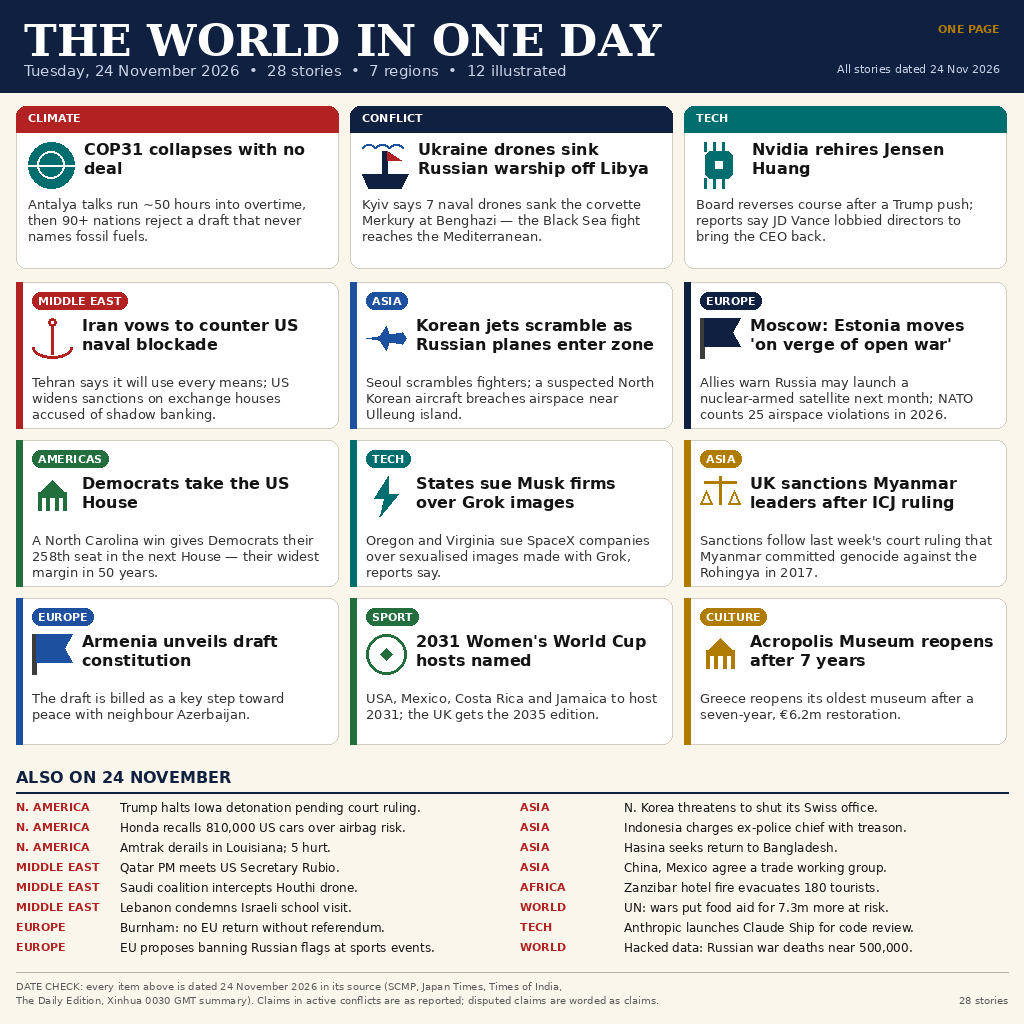
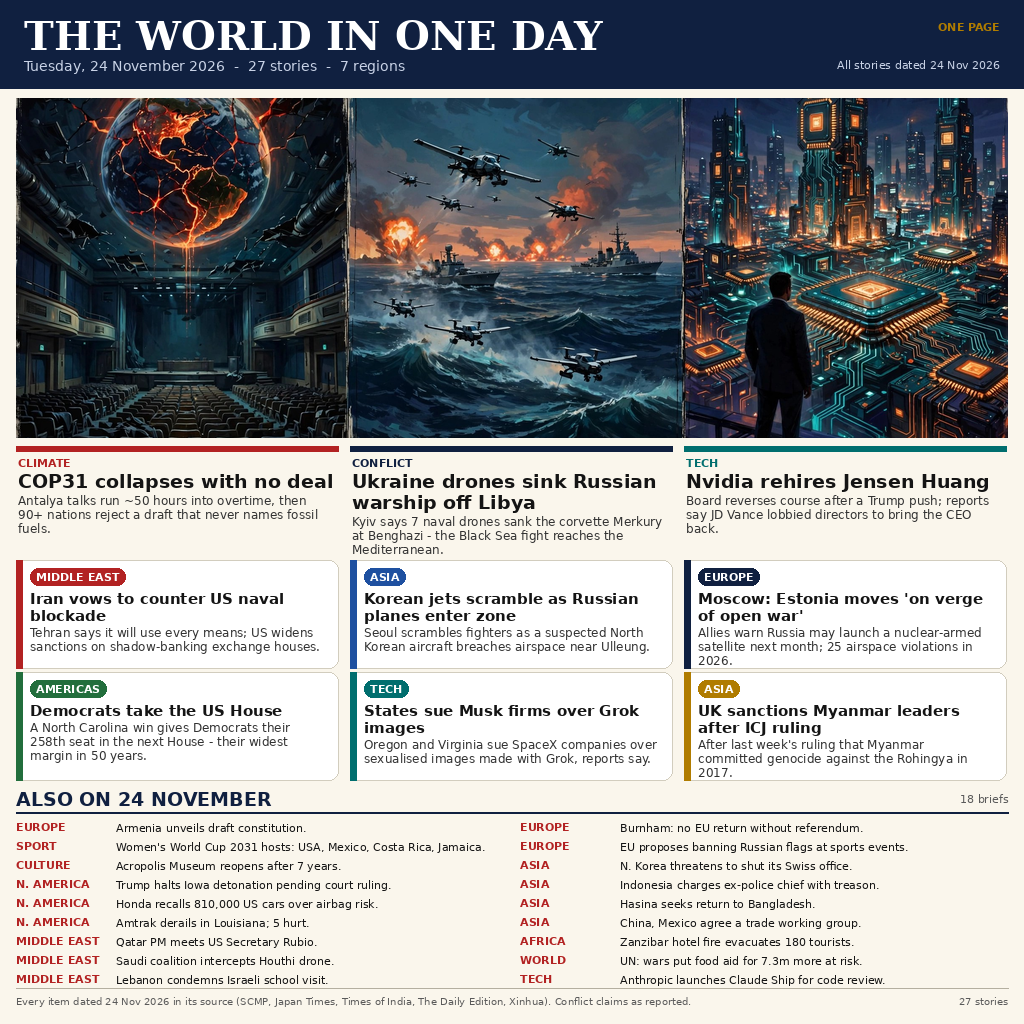
v2: AI-illustrated triptych hero + typeset news layer (27 stories)

diff --git a/generate.py b/generate.py
@@ -1,178 +1,57 @@
 #!/usr/bin/env python3
-"""Generate the 24 Nov 2026 world-news front page (1024x1024 PNG).
-Deterministic: fixed date, fixed story list, no network, no random, no clock.
-Run: python3 generate.py  -> writes assets/entry.png
-Stories were collected 2026-11-24 ~16:00 CST from SCMP, Japan Times,
-Times of India, The Daily Edition, Xinhua summary and make.fun's own
-prior-day winner notes. Anything dated 23 Nov or earlier is excluded
-except where the report itself is dated 24 Nov (marked 'reported 24 Nov').
-"""
-import textwrap
+"""Generate the 24 Nov 2026 world-news front page v2 (1024x1024 PNG).
+Deterministic: fixed assets, fixed story list, no network, no clock, no random.
+Run: python3 generate.py -> writes assets/entry.png
+Layout: AI-illustrated triptych of the three lead stories on top,
+code-typeset headlines, cards and briefs below (27 stories, 7 regions).
+Stories as collected 2026-11-24 from SCMP, Japan Times, Times of India,
+The Daily Edition and Xinhua; all items dated 24 Nov 2026."""
+import os
 from PIL import Image, ImageDraw, ImageFont
 
+HERE = os.path.dirname(os.path.abspath(__file__))
 W = H = 1024
 FD = "/usr/share/fonts/truetype/dejavu/"
-F_TITLE = ImageFont.truetype(FD + "DejaVuSerif-Bold.ttf", 44)
-F_SUB = ImageFont.truetype(FD + "DejaVuSans.ttf", 15)
-F_H1 = ImageFont.truetype(FD + "DejaVuSans-Bold.ttf", 21)
-F_H2 = ImageFont.truetype(FD + "DejaVuSans-Bold.ttf", 16)
-F_BODY = ImageFont.truetype(FD + "DejaVuSans.ttf", 13)
-F_SMALL = ImageFont.truetype(FD + "DejaVuSans.ttf", 11)
-F_TAG = ImageFont.truetype(FD + "DejaVuSans-Bold.ttf", 11)
-F_FOOT = ImageFont.truetype(FD + "DejaVuSans.ttf", 10)
+def F(name, size): return ImageFont.truetype(FD + name, size)
+F_TITLE = F("DejaVuSerif-Bold.ttf", 40)
+F_SUB   = F("DejaVuSans.ttf", 14)
+F_H1    = F("DejaVuSans-Bold.ttf", 19)
+F_H2    = F("DejaVuSans-Bold.ttf", 15)
+F_BODY  = F("DejaVuSans.ttf", 12)
+F_SMALL = F("DejaVuSans.ttf", 11)
+F_TAG   = F("DejaVuSans-Bold.ttf", 11)
+F_FOOT  = F("DejaVuSans.ttf", 10)
 
 NAVY = (16, 32, 64); PAPER = (250, 246, 236); INK = (20, 20, 20)
 GREY = (90, 90, 90); RED = (178, 34, 34); TEAL = (0, 110, 110)
 GOLD = (176, 124, 0); BLUE = (30, 80, 160); GREEN = (34, 110, 60)
-SKY = (210, 228, 240); SAND = (238, 226, 200)
 
-img = Image.new("RGB", (W, H), PAPER)
-d = ImageDraw.Draw(img)
-
-def wrap(text, font, width):
-    lines, cur = [], ""
-    for word in text.split(" "):
-        t = (cur + " " + word).strip()
-        if d.textlength(t, font=font) <= width:
-            cur = t
-        else:
-            if cur:
-                lines.append(cur)
-            cur = word
-    if cur:
-        lines.append(cur)
-    return lines
-
-def para(x, y, text, font, width, fill=INK, lh=None):
-    lh = lh or int(font.size * 1.28)
-    for ln in wrap(text, font, width):
-        d.text((x, y), ln, font=font, fill=fill)
-        y += lh
-    return y
-
-def tag(x, y, label, color):
-    w = int(d.textlength(label, font=F_TAG)) + 12
-    d.rounded_rectangle([x, y, x + w, y + 17], radius=8, fill=color)
-    d.text((x + 6, y + 2), label, font=F_TAG, fill=(255, 255, 255))
-    return w
-
-def icon(kind, x, y, s, color):
-    """Simple flat vector icon drawn with shapes only."""
-    if kind == "globe":
-        d.ellipse([x, y, x + s, y + s], fill=TEAL)
-        d.ellipse([x + s*0.2, y + s*0.2, x + s*0.8, y + s*0.8], outline=(255,255,255), width=2)
-        d.line([x, y + s/2, x + s, y + s/2], fill=(255,255,255), width=2)
-    elif kind == "ship":
-        d.polygon([(x, y+s*0.7), (x+s, y+s*0.7), (x+s*0.85, y+s), (x+s*0.15, y+s)], fill=color)
-        d.rectangle([x+s*0.45, y+s*0.2, x+s*0.55, y+s*0.7], fill=color)
-        d.polygon([(x+s*0.55, y+s*0.2), (x+s*0.85, y+s*0.4), (x+s*0.55, y+s*0.4)], fill=RED)
-        for i in range(3):
-            d.arc([x+i*s*0.3, y+s*0.05, x+(i+1)*s*0.3, y+s*0.25], 180, 360, fill=BLUE, width=2)
-    elif kind == "chip":
-        d.rounded_rectangle([x+s*0.2, y+s*0.2, x+s*0.8, y+s*0.8], radius=6, fill=color)
-        d.rectangle([x+s*0.42, y+s*0.42, x+s*0.58, y+s*0.58], fill=(255,255,255))
-        for i in range(3):
-            d.line([x+s*0.2+i*s*0.2, y, x+s*0.2+i*s*0.2, y+s*0.2], fill=color, width=3)
-            d.line([x+s*0.2+i*s*0.2, y+s*0.8, x+s*0.2+i*s*0.2, y+s], fill=color, width=3)
-    elif kind == "plane":
-        d.polygon([(x, y+s*0.5), (x+s*0.9, y+s*0.35), (x+s, y+s*0.5), (x+s*0.9, y+s*0.65)], fill=color)
-        d.polygon([(x+s*0.3, y+s*0.5), (x+s*0.5, y+s*0.2), (x+s*0.6, y+s*0.5)], fill=color)
-        d.polygon([(x+s*0.3, y+s*0.5), (x+s*0.5, y+s*0.8), (x+s*0.6, y+s*0.5)], fill=color)
-    elif kind == "flag":
-        d.rectangle([x, y, x+4, y+s], fill=(60,60,60))
-        d.polygon([(x+4, y), (x+s, y), (x+s*0.8, y+s*0.35), (x+s, y+s*0.7), (x+4, y+s*0.7)], fill=color)
-    elif kind == "scale":
-        d.line([x+s/2, y, x+s/2, y+s*0.7], fill=color, width=3)
-        d.line([x+s*0.1, y+s*0.15, x+s*0.9, y+s*0.15], fill=color, width=3)
-        d.polygon([(x, y+s*0.7), (x+s*0.3, y+s*0.7), (x+s*0.15, y+s*0.35)], outline=color, width=2)
-        d.polygon([(x+s*0.7, y+s*0.7), (x+s, y+s*0.7), (x+s*0.85, y+s*0.35)], outline=color, width=2)
-    elif kind == "ball":
-        d.ellipse([x, y, x+s, y+s], fill=(255,255,255), outline=color, width=3)
-        d.polygon([(x+s*0.5, y+s*0.35), (x+s*0.65, y+s*0.5), (x+s*0.5, y+s*0.65), (x+s*0.35, y+s*0.5)], fill=color)
-    elif kind == "book":
-        d.rectangle([x+s*0.15, y+s*0.1, x+s*0.85, y+s*0.9], fill=color)
-        d.rectangle([x+s*0.15, y+s*0.1, x+s*0.5, y+s*0.9], fill=(255,255,255))
-        d.line([x+s*0.2, y+s*0.3, x+s*0.45, y+s*0.3], fill=color, width=2)
-        d.line([x+s*0.2, y+s*0.5, x+s*0.45, y+s*0.5], fill=color, width=2)
-    elif kind == "anchor":
-        d.ellipse([x+s*0.4, y, x+s*0.6, y+s*0.2], outline=color, width=3)
-        d.line([x+s/2, y+s*0.15, x+s/2, y+s*0.9], fill=color, width=3)
-        d.arc([x, y+s*0.45, x+s, y+s], 0, 180, fill=color, width=3)
-    elif kind == "capitol":
-        d.polygon([(x+s*0.2, y+s*0.4), (x+s*0.5, y+s*0.1), (x+s*0.8, y+s*0.4)], fill=color)
-        d.rectangle([x+s*0.15, y+s*0.4, x+s*0.85, y+s*0.85], fill=color)
-        for i in range(3):
-            d.rectangle([x+s*0.25+i*s*0.22, y+s*0.55, x+s*0.33+i*s*0.22, y+s*0.85], fill=(255,255,255))
-    elif kind == "leaf":
-        d.ellipse([x, y+s*0.2, x+s*0.8, y+s], fill=color)
-        d.polygon([(x+s*0.7, y), (x+s, y+s*0.3), (x+s*0.8, y+s*0.1)], fill=GREEN)
-    elif kind == "bolt":
-        d.polygon([(x+s*0.55, y), (x+s*0.2, y+s*0.55), (x+s*0.45, y+s*0.55), (x+s*0.35, y+s), (x+s*0.8, y+s*0.45), (x+s*0.55, y+s*0.45)], fill=color)
-
-# ---- Masthead ----
-d.rectangle([0, 0, W, 92], fill=NAVY)
-d.text((24, 14), "THE WORLD IN ONE DAY", font=F_TITLE, fill=(255, 255, 255))
-d.text((24, 62), "Tuesday, 24 November 2026  •  28 stories  •  7 regions  •  12 illustrated",
-       font=F_SUB, fill=(200, 210, 230))
-d.text((W-24, 22), "ONE PAGE", font=F_TAG, fill=GOLD, anchor="ra")
-d.text((W-24, 62), "All stories dated 24 Nov 2026", font=F_SMALL, fill=(200, 210, 230), anchor="ra")
-
-# ---- Lead row: 3 big cards ----
-leads = [
-    ("CLIMATE", RED, "globe", "COP31 collapses with no deal",
+LEADS = [
+    ("CLIMATE", RED, "COP31 collapses with no deal",
      "Antalya talks run ~50 hours into overtime, then 90+ nations reject a draft that never names fossil fuels."),
-    ("CONFLICT", NAVY, "ship", "Ukraine drones sink Russian warship off Libya",
-     "Kyiv says 7 naval drones sank the corvette Merkury at Benghazi — the Black Sea fight reaches the Mediterranean."),
-    ("TECH", TEAL, "chip", "Nvidia rehires Jensen Huang",
+    ("CONFLICT", NAVY, "Ukraine drones sink Russian warship off Libya",
+     "Kyiv says 7 naval drones sank the corvette Merkury at Benghazi - the Black Sea fight reaches the Mediterranean."),
+    ("TECH", TEAL, "Nvidia rehires Jensen Huang",
      "Board reverses course after a Trump push; reports say JD Vance lobbied directors to bring the CEO back."),
 ]
-x = 16
-for tagname, col, ic, head, body in leads:
-    d.rounded_rectangle([x, 106, x + 322, 268], radius=10, fill=(255, 255, 255), outline=(210, 205, 190))
-    d.rounded_rectangle([x, 106, x + 322, 132], radius=10, fill=col)
-    d.rectangle([x, 122, x + 322, 132], fill=col)
-    d.text((x + 12, 111), tagname, font=F_TAG, fill=(255, 255, 255))
-    icon(ic, x + 12, 142, 46, col)
-    yy = para(x + 68, 140, head, F_H2, 240, lh=19)
-    para(x + 12, 196, body, F_BODY, 298, fill=(50, 50, 50))
-    x += 334
-
-# ---- Middle grid: 9 illustrated cards ----
-cards = [
-    ("MIDDLE EAST", RED, "anchor", "Iran vows to counter US naval blockade",
-     "Tehran says it will use every means; US widens sanctions on exchange houses accused of shadow banking."),
-    ("ASIA", BLUE, "plane", "Korean jets scramble as Russian planes enter zone",
-     "Seoul scrambles fighters; a suspected North Korean aircraft breaches airspace near Ulleung island."),
-    ("EUROPE", NAVY, "flag", "Moscow: Estonia moves 'on verge of open war'",
-     "Allies warn Russia may launch a nuclear-armed satellite next month; NATO counts 25 airspace violations in 2026."),
-    ("AMERICAS", GREEN, "capitol", "Democrats take the US House",
-     "A North Carolina win gives Democrats their 258th seat in the next House — their widest margin in 50 years."),
-    ("TECH", TEAL, "bolt", "States sue Musk firms over Grok images",
+CARDS = [
+    ("MIDDLE EAST", RED, "Iran vows to counter US naval blockade",
+     "Tehran says it will use every means; US widens sanctions on shadow-banking exchange houses."),
+    ("ASIA", BLUE, "Korean jets scramble as Russian planes enter zone",
+     "Seoul scrambles fighters as a suspected North Korean aircraft breaches airspace near Ulleung."),
+    ("EUROPE", NAVY, "Moscow: Estonia moves 'on verge of open war'",
+     "Allies warn Russia may launch a nuclear-armed satellite next month; 25 airspace violations in 2026."),
+    ("AMERICAS", GREEN, "Democrats take the US House",
+     "A North Carolina win gives Democrats their 258th seat in the next House - their widest margin in 50 years."),
+    ("TECH", TEAL, "States sue Musk firms over Grok images",
      "Oregon and Virginia sue SpaceX companies over sexualised images made with Grok, reports say."),
-    ("ASIA", GOLD, "scale", "UK sanctions Myanmar leaders after ICJ ruling",
-     "Sanctions follow last week's court ruling that Myanmar committed genocide against the Rohingya in 2017."),
-    ("EUROPE", BLUE, "flag", "Armenia unveils draft constitution",
-     "The draft is billed as a key step toward peace with neighbour Azerbaijan."),
-    ("SPORT", GREEN, "ball", "2031 Women's World Cup hosts named",
-     "USA, Mexico, Costa Rica and Jamaica to host 2031; the UK gets the 2035 edition."),
-    ("CULTURE", GOLD, "capitol", "Acropolis Museum reopens after 7 years",
-     "Greece reopens its oldest museum after a seven-year, €6.2m restoration."),
+    ("ASIA", GOLD, "UK sanctions Myanmar leaders after ICJ ruling",
+     "After last week's ruling that Myanmar committed genocide against the Rohingya in 2017."),
 ]
-y0 = 282
-for i, (tagname, col, ic, head, body) in enumerate(cards):
-    cx = 16 + (i % 3) * 334
-    cy = y0 + (i // 3) * 158
-    d.rounded_rectangle([cx, cy, cx + 322, cy + 146], radius=10, fill=(255, 255, 255), outline=(210, 205, 190))
-    d.rectangle([cx, cy, cx + 6, cy + 146], fill=col)
-    tag(cx + 16, cy + 10, tagname, col)
-    icon(ic, cx + 16, cy + 36, 40, col)
-    para(cx + 66, cy + 34, head, F_H2, 244, lh=19)
-    para(cx + 16, cy + 92, body, F_BODY, 292, fill=(50, 50, 50))
-
-# ---- Briefs: two columns, 18 more stories ----
-d.text((16, 768), "ALSO ON 24 NOVEMBER", font=F_H2, fill=NAVY)
-d.line([16, 792, W - 16, 792], fill=NAVY, width=2)
-briefs_l = [
+BRIEFS = [
+    ("EUROPE", "Armenia unveils draft constitution."),
+    ("SPORT", "Women's World Cup 2031 hosts: USA, Mexico, Costa Rica, Jamaica."),
+    ("CULTURE", "Acropolis Museum reopens after 7 years."),
     ("N. AMERICA", "Trump halts Iowa detonation pending court ruling."),
     ("N. AMERICA", "Honda recalls 810,000 US cars over airbag risk."),
     ("N. AMERICA", "Amtrak derails in Louisiana; 5 hurt."),
@@ -181,8 +60,6 @@ briefs_l = [
     ("MIDDLE EAST", "Lebanon condemns Israeli school visit."),
     ("EUROPE", "Burnham: no EU return without referendum."),
     ("EUROPE", "EU proposes banning Russian flags at sports events."),
-]
-briefs_r = [
     ("ASIA", "N. Korea threatens to shut its Swiss office."),
     ("ASIA", "Indonesia charges ex-police chief with treason."),
     ("ASIA", "Hasina seeks return to Bangladesh."),
@@ -190,25 +67,95 @@ briefs_r = [
     ("AFRICA", "Zanzibar hotel fire evacuates 180 tourists."),
     ("WORLD", "UN: wars put food aid for 7.3m more at risk."),
     ("TECH", "Anthropic launches Claude Ship for code review."),
-    ("WORLD", "Hacked data: Russian war deaths near 500,000."),
 ]
-F_BRIEF = ImageFont.truetype(FD + "DejaVuSans.ttf", 12)
-def brief_col(x, items, y=800):
-    for region, text in items:
-        d.text((x, y), region, font=F_TAG, fill=RED)
-        y = para(x + 104, y, text, F_BRIEF, 376, lh=15)
-        y += 5
+
+def wrap(d, text, font, width):
+    lines, cur = [], ""
+    for word in text.split(" "):
+        t = (cur + " " + word).strip()
+        if d.textlength(t, font=font) <= width:
+            cur = t
+        else:
+            if cur: lines.append(cur)
+            cur = word
+    if cur: lines.append(cur)
+    return lines
+
+def para(d, x, y, text, font, width, fill=INK, lh=None):
+    lh = lh or int(font.size * 1.3)
+    for ln in wrap(d, text, font, width):
+        d.text((x, y), ln, font=font, fill=fill)
+        y += lh
     return y
-brief_col(16, briefs_l)
-brief_col(520, briefs_r)
 
-# ---- Footer ----
-d.line([16, 972, W - 16, 972], fill=(180, 175, 160), width=1)
-d.text((16, 980), "DATE CHECK: every item above is dated 24 November 2026 in its source (SCMP, Japan Times, Times of India,",
-       font=F_FOOT, fill=GREY)
-d.text((16, 994), "The Daily Edition, Xinhua 0030 GMT summary). Claims in active conflicts are as reported; disputed claims are worded as claims.",
-       font=F_FOOT, fill=GREY)
-d.text((W - 16, 994), "28 stories", font=F_FOOT, fill=GREY, anchor="ra")
+def cover_crop(im, tw, th, cy_frac=0.5):
+    sw, sh = im.size
+    scale = max(tw / sw, th / sh)
+    nw, nh = int(sw * scale + 0.5), int(sh * scale + 0.5)
+    im2 = im.resize((nw, nh), Image.LANCZOS)
+    x = (nw - tw) // 2
+    y = int((nh - th) * cy_frac)
+    return im2.crop((x, y, x + tw, y + th))
 
-img.save("assets/entry.png", optimize=True)
-print("saved assets/entry.png")
+img = Image.new("RGB", (W, H), PAPER)
+d = ImageDraw.Draw(img)
+
+# Masthead
+d.rectangle([0, 0, W, 88], fill=NAVY)
+d.text((24, 12), "THE WORLD IN ONE DAY", font=F_TITLE, fill=(255, 255, 255))
+d.text((24, 58), "Tuesday, 24 November 2026  -  27 stories  -  7 regions",
+       font=F_SUB, fill=(200, 210, 230))
+d.text((W - 24, 20), "ONE PAGE", font=F_TAG, fill=GOLD, anchor="ra")
+d.text((W - 24, 58), "All stories dated 24 Nov 2026", font=F_SMALL,
+       fill=(200, 210, 230), anchor="ra")
+
+# Hero: triptych of the three leads
+hero = Image.open(os.path.join(HERE, "assets", "hero_triptych.jpg")).convert("RGB")
+img.paste(cover_crop(hero, 992, 340, 0.46), (16, 98))
+
+# Lead strip aligned to panels
+y = 446
+for i, (tagname, col, head, body) in enumerate(LEADS):
+    x = 16 + i * 334
+    d.rectangle([x, y, x + 322, y + 5], fill=col)
+    d.text((x + 2, y + 10), tagname, font=F_TAG, fill=col)
+    yy = para(d, x + 2, y + 24, head, F_H1, 316, lh=21)
+    para(d, x + 2, yy + 2, body, F_BODY, 316, fill=(50, 50, 50), lh=14)
+
+# Cards: 2 rows x 3
+y0 = 560
+for i, (tagname, col, head, body) in enumerate(CARDS):
+    cx = 16 + (i % 3) * 334
+    cy = y0 + (i // 3) * 112
+    d.rounded_rectangle([cx, cy, cx + 322, cy + 108], radius=10,
+                        fill=(255, 255, 255), outline=(210, 205, 190))
+    d.rectangle([cx, cy, cx + 6, cy + 108], fill=col)
+    wtag = int(d.textlength(tagname, font=F_TAG)) + 12
+    d.rounded_rectangle([cx + 14, cy + 8, cx + 14 + wtag, cy + 25], radius=8, fill=col)
+    d.text((cx + 20, cy + 10), tagname, font=F_TAG, fill=(255, 255, 255))
+    yy = para(d, cx + 14, cy + 30, head, F_H2, 294, lh=17)
+    para(d, cx + 14, yy + 1, body, F_BODY, 294, fill=(50, 50, 50), lh=14)
+
+# Briefs: heading + 2 cols x 9 one-liners
+by = 788
+d.text((16, by), "ALSO ON 24 NOVEMBER", font=F_H1, fill=NAVY)
+d.text((W - 16, by + 4), "18 briefs", font=F_SMALL, fill=GREY, anchor="ra")
+d.line([16, by + 24, W - 16, by + 24], fill=NAVY, width=2)
+half = 9
+for col_i, chunk in enumerate((BRIEFS[:half], BRIEFS[half:])):
+    x = 16 if col_i == 0 else 520
+    yy = by + 32
+    for region, text in chunk:
+        d.text((x, yy), region, font=F_TAG, fill=RED)
+        lines = wrap(d, text, F_SMALL, 388)
+        assert len(lines) == 1, (region, text, lines)
+        d.text((x + 100, yy + 1), lines[0], font=F_SMALL, fill=INK)
+        yy += 19
+d.line([16, 988, W - 16, 988], fill=(180, 175, 160), width=1)
+d.text((16, 995), "Every item dated 24 Nov 2026 in its source (SCMP, Japan Times, Times of India, The Daily Edition, Xinhua). Conflict claims as reported.",
+       font=F_FOOT, fill=GREY)
+d.text((W - 16, 995), "27 stories", font=F_FOOT, fill=GREY, anchor="ra")
+
+p = os.path.join(HERE, "assets", "entry.png")
+img.save(p, optimize=True)
+print("saved", p, os.path.getsize(p))
